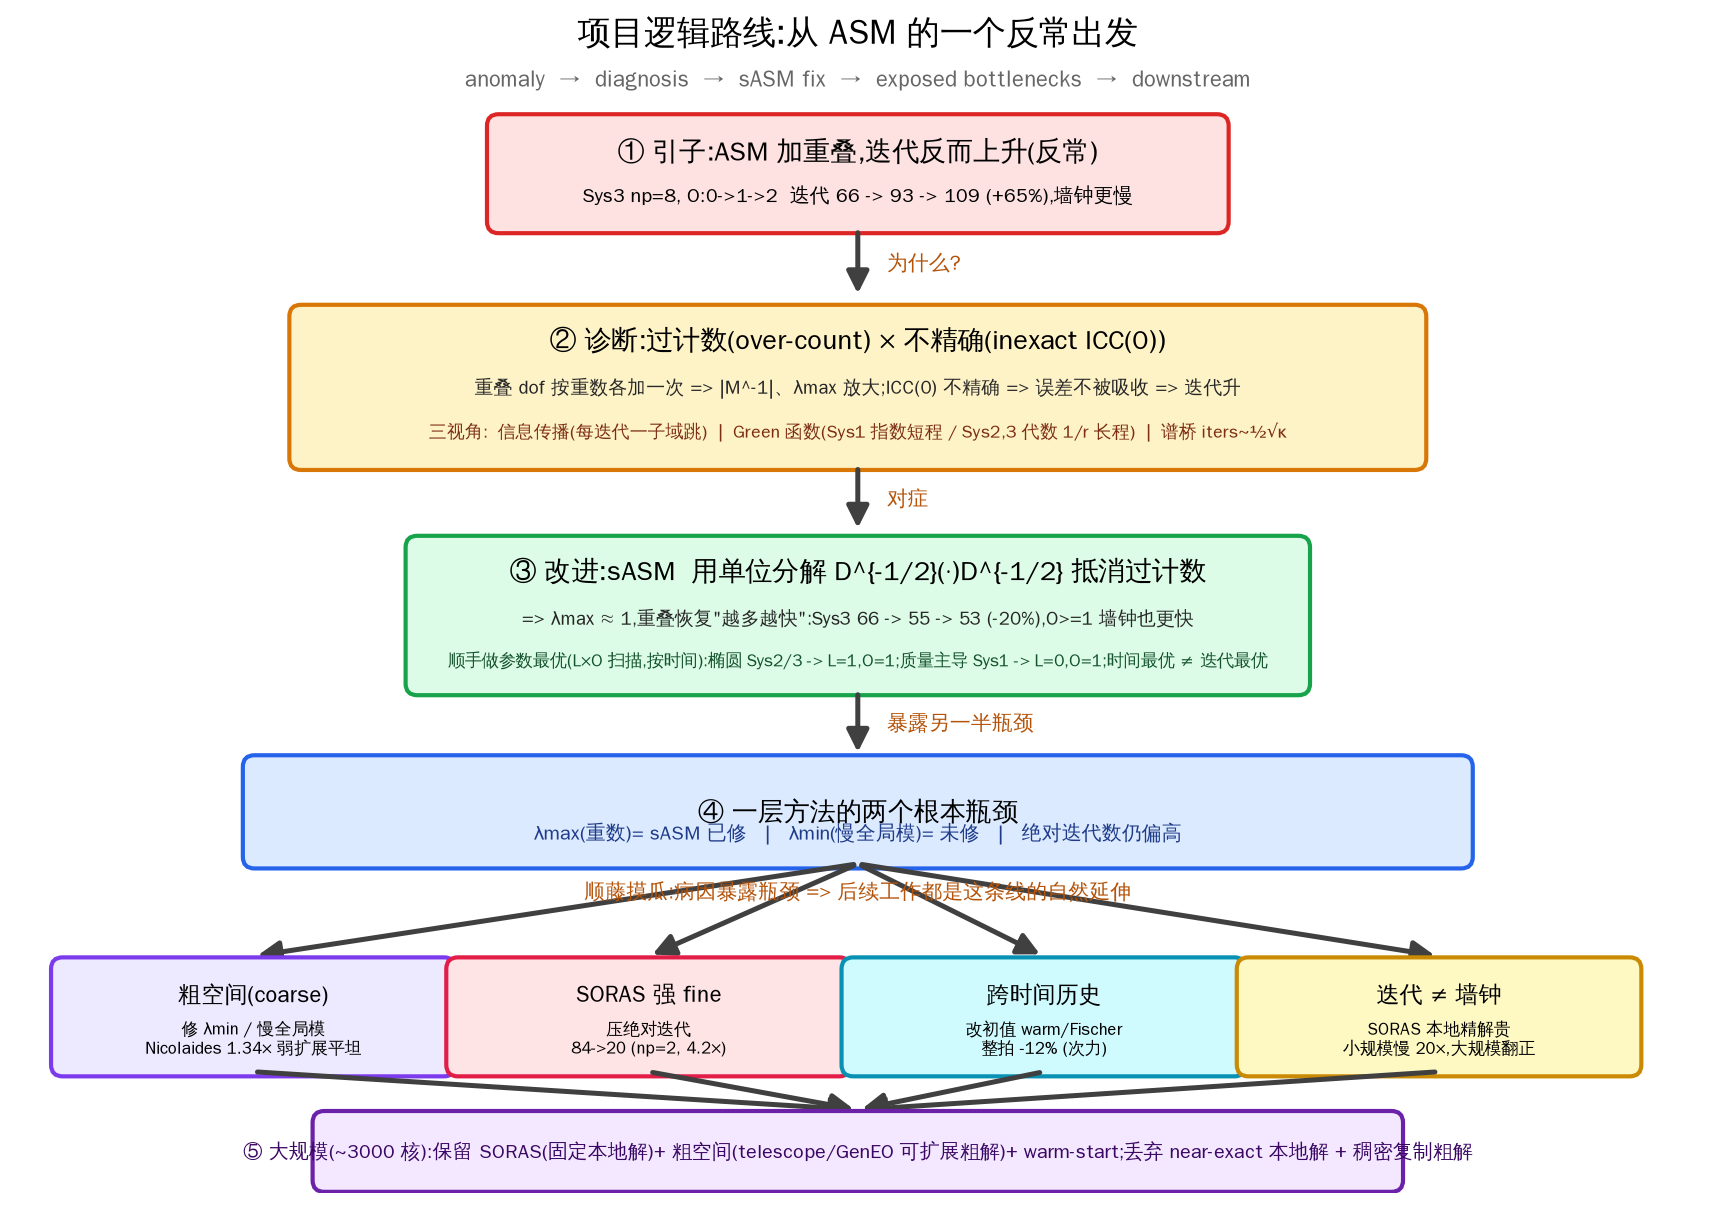
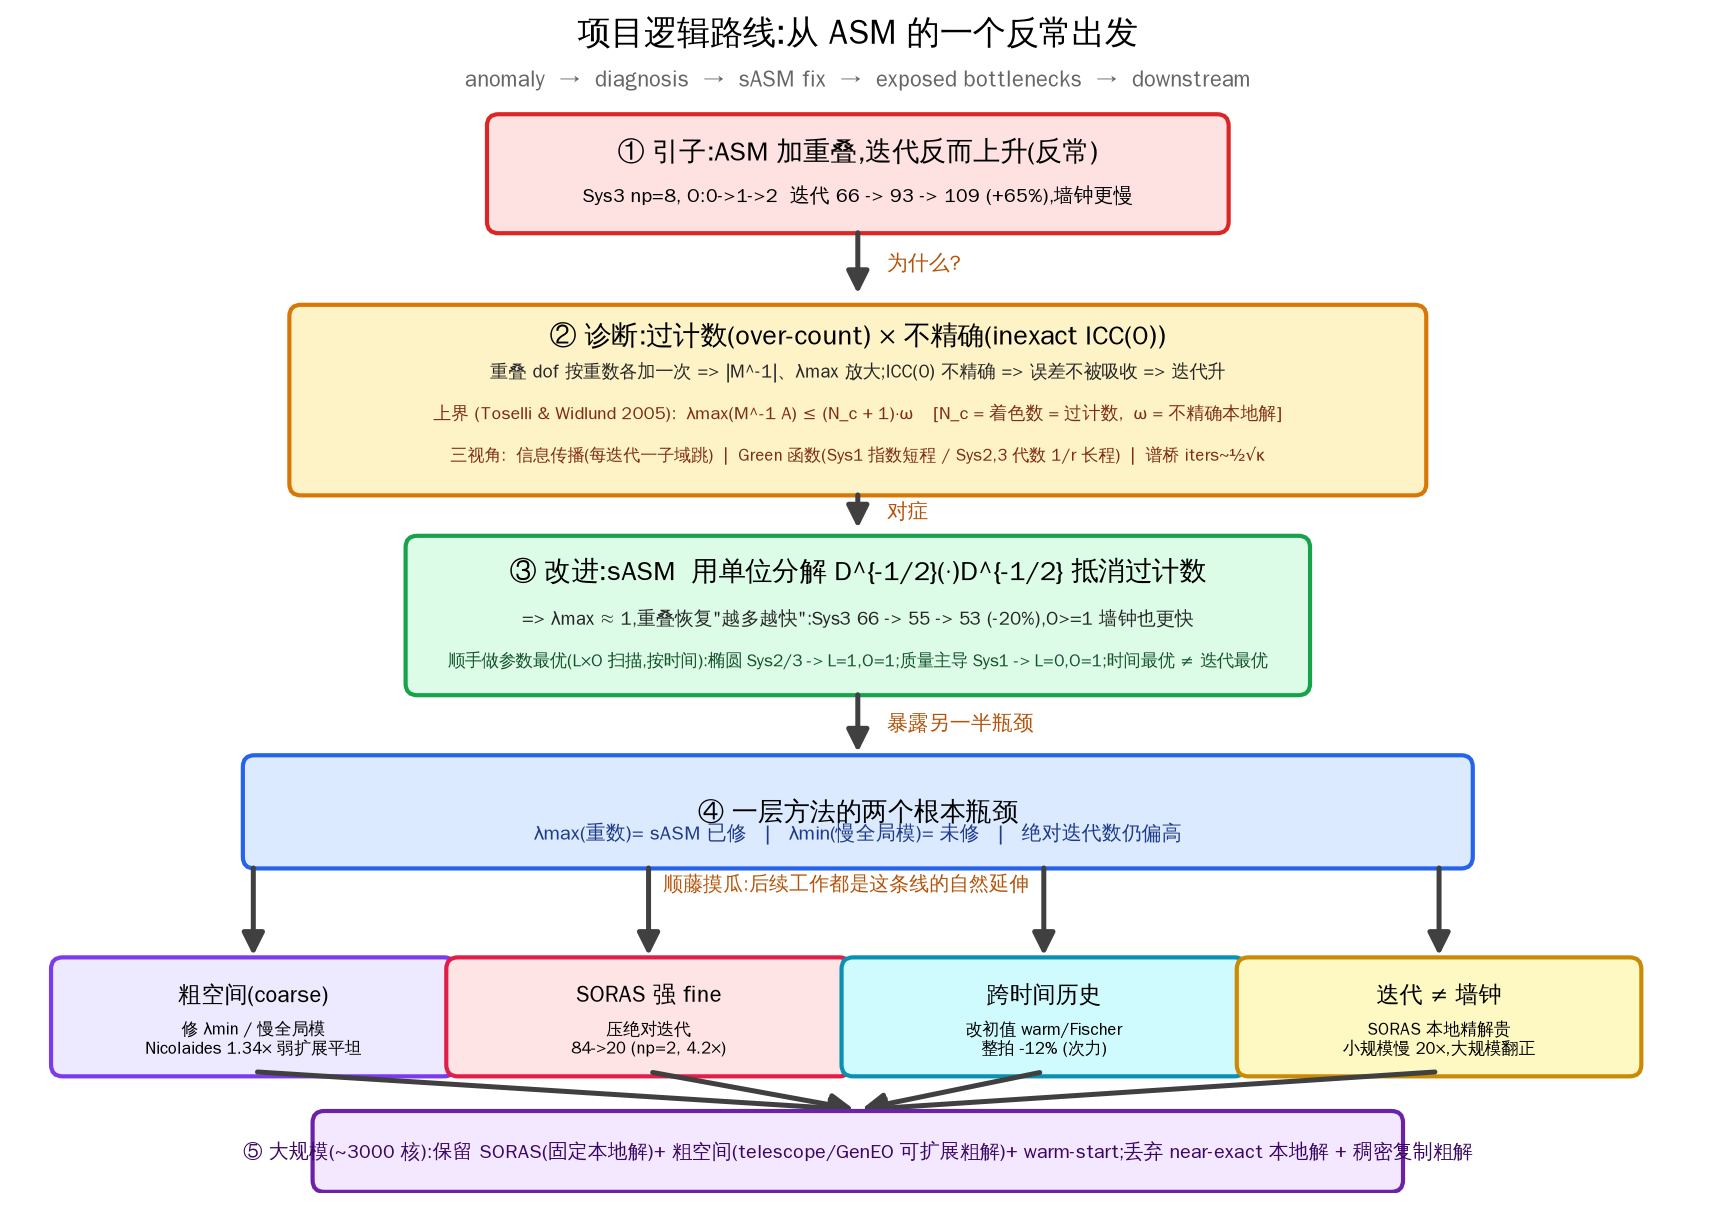
roadmap+prompt: fix text overlap; cite the coloring-number x inexact-solver bound
(1) Fix figure text overlap: fan-out arrows now run straight down from box (4)
    at each downstream box center, so the central label sits cleanly in the gap.
(2) Cite the theoretical upper bound behind the over-count x inexact diagnosis:
    lambda_max(M_ASM^-1 A) <= N_c (coloring number); with inexact local solves
    a(P_ad u,u) <= (N_c+1) omega a(u,u), i.e. lambda_max <= (N_c+1) omega.
    N_c = coloring number = the over-count; omega = inexact-solver stability
    constant = the inexactness -- the rigorous form of 'over-count x inexact'.
    Ref: Toselli & Widlund (2005), abstract Schwarz theory; also Smith-Bjorstad-
    Gropp (1996), Dryja-Widlund (1987). Added to the diagnosis box in the figure
    and to the prompt's diagnosis section + a references block.

Claude-Session: https://claude.ai/code/session_01Td7PJYykjvwsdg1NW8u8VH

diff --git a/asm_bug_demo/cardiac/plot_roadmap.py b/asm_bug_demo/cardiac/plot_roadmap.py
@@ -47,14 +47,16 @@ def frame(x, y, w, h, fc, ec):
     ax.add_patch(FancyBboxPatch((x, y), w, h, boxstyle="round,pad=0.04,rounding_size=0.10",
                                 fc=fc, ec=ec, lw=2.0))
 
-frame(2.4, 6.30, 9.7, 1.35, "#fef3c7", "#d97706")
-ax.text(7.25, 7.38, "② 诊断:过计数(over-count) × 不精确(inexact ICC(0))",
+frame(2.4, 6.08, 9.7, 1.57, "#fef3c7", "#d97706")
+ax.text(7.25, 7.42, "② 诊断:过计数(over-count) × 不精确(inexact ICC(0))",
         ha="center", va="center", fontsize=13, weight="bold")
-ax.text(7.25, 6.92, "重叠 dof 按重数各加一次 => |M^-1|、λmax 放大;ICC(0) 不精确 => 误差不被吸收 => 迭代升",
-        ha="center", fontsize=9, color="0.15")
-ax.text(7.25, 6.54, "三视角:  信息传播(每迭代一子域跳)  |  Green 函数(Sys1 指数短程 / Sys2,3 代数 1/r 长程)  |  谱桥 iters~½√κ",
-        ha="center", fontsize=8.6, color="#7c2d12")
-arrow(7.25, 6.30, 7.25, 5.72, "对症")
+ax.text(7.25, 7.06, "重叠 dof 按重数各加一次 => |M^-1|、λmax 放大;ICC(0) 不精确 => 误差不被吸收 => 迭代升",
+        ha="center", fontsize=8.8, color="0.15")
+ax.text(7.25, 6.70, "上界 (Toselli & Widlund 2005):  λmax(M^-1 A) ≤ (N_c + 1)·ω    [N_c = 着色数 = 过计数,  ω = 不精确本地解]",
+        ha="center", fontsize=8.6, color="#7c2d12", weight="bold")
+ax.text(7.25, 6.34, "三视角:  信息传播(每迭代一子域跳)  |  Green 函数(Sys1 指数短程 / Sys2,3 代数 1/r 长程)  |  谱桥 iters~½√κ",
+        ha="center", fontsize=8.2, color="#7c2d12")
+arrow(7.25, 6.08, 7.25, 5.72, "对症")
 
 frame(3.4, 4.35, 7.7, 1.30, "#dcfce7", "#16a34a")
 ax.text(7.25, 5.38, "③ 改进:sASM  用单位分解 D^{-1/2}(·)D^{-1/2} 抵消过计数",
@@ -70,9 +72,10 @@ box(2.0, 2.85, 10.5, 0.90, "#dbeafe", "#2563eb",
 ax.text(7.25, 3.06, "λmax(重数)= sASM 已修   |   λmin(慢全局模)= 未修   |   绝对迭代数仍偏高",
         ha="center", fontsize=9.5, color="#1e3a8a", weight="bold")
 
-# --- fan-out downstream ---------------------------------------------------
-ax.text(7.25, 2.55, "顺藤摸瓜:病因暴露瓶颈 => 后续工作都是这条线的自然延伸", ha="center",
-        fontsize=10, style="italic", color="#b45309", weight="bold")
+# --- fan-out downstream:  arrows straight down from box4 (per-box center),
+#     so the central label sits cleanly in the gap between arrows -----------
+ax.text(7.15, 2.62, "顺藤摸瓜:后续工作都是这条线的自然延伸", ha="center",
+        fontsize=9.5, style="italic", color="#b45309", weight="bold")
 ds = [
     (0.35, "#ede9fe", "#7c3aed", "粗空间(coarse)", "修 λmin / 慢全局模\nNicolaides 1.34× 弱扩展平坦"),
     (3.75, "#ffe4e6", "#e11d48", "SORAS 强 fine", "压绝对迭代\n84->20 (np=2, 4.2×)"),
@@ -80,7 +83,8 @@ ds = [
     (10.55, "#fef9c3", "#ca8a04", "迭代 ≠ 墙钟", "SORAS 本地精解贵\n小规模慢 20×,大规模翻正"),
 ]
 for x, fc, ec, t, b in ds:
-    arrow(7.25, 2.85, x+1.7, 2.05, "")
+    cx = x + 1.7
+    arrow(cx, 2.85, cx, 2.02, "")
     box(x, 1.05, 3.4, 0.95, fc, ec, t, b, 11, 8.2)
 
 # --- large scale sink -----------------------------------------------------

diff --git a/asm_bug_demo/cardiac/PROMPT_project_zh.md b/asm_bug_demo/cardiac/PROMPT_project_zh.md
@@ -60,6 +60,16 @@ P1 非结构四面体 FEM(heart 47582 tets,torso 206647 tets);各向异性 $\sig
   $\lambda_{\max}$ 偏大),谱被拉坏。
 - 本地 ICC(0) 解**不精确**,这份放大误差不被本地精解吸收 ⇒ 迭代升。(两条缺一不可:精确本地解或无重叠都不会反常。)
 
+**理论上界(抽象 Schwarz 理论,Toselli & Widlund 2005;亦见 Smith–Bjørstad–Gropp 1996、Dryja–Widlund 1987)**:
+一层加性 Schwarz 满足
+$$\lambda_{\max}\!\big(M_{\text{ASM}}^{-1}A\big)\le N_c,\qquad
+\text{带不精确本地解}:\quad a(P_{ad}u,u)\le (N_c+1)\,\omega\,a(u,u)\ \Rightarrow\ \lambda_{\max}\le(N_c+1)\,\omega,$$
+其中 **$N_c=$ 着色数(coloring number,同色子域互不重叠所需的最少颜色数)= 我们的"过计数/重数"**,
+**$\omega=$ 本地(不精确)求解器的稳定常数($=1$ 为精确解,$>1$ 为 ICC(0))= 我们的"不精确"**。
+**这条上界正是"过计数 × 不精确"的严格数学表述**:加重叠抬高 $N_c$、ICC(0) 抬高 $\omega$ ⇒ $\lambda_{\max}$ 升 ⇒ 迭代升;
+sASM 的单位分解把重数归一 ⇒ $N_c$ 那一因子被抵消 ⇒ $\lambda_{\max}\approx1$。(下界 $\lambda_{\min}\ge \tau_1/\mathcal M_c$
+由稳定分解常数给出,对应 §四的慢全局模 / 需要粗空间。)
+
 三个互补的解释视角(为报告/汇报准备):
 1. **信息传播**:一层 Schwarz 每迭代把边界势推进**一个子域跳**;要传遍全域需 $\sim$(子域直径)步 ⇒ 迭代随 $n_p$ 增长。
    重叠本应加速这个传播,但 BASIC 的过计数把增益抵消还倒赔。
@@ -128,4 +138,18 @@ overlap-1(**时间最优 ≠ 迭代最优**)。③ 一层的两个瓶颈:$\lambd
 **代码入口(`forward_ecg.cpp`,均 skip EP loop)**:`-precond`(ASM vs sASM,iters + tot/solve-only ms)、
 `-sweep`(sASM $L\times O$ 扫描 + 时间最优)、`-fischer`(跨时间)、`-coarse`(Nicolaides 两层)、
 `-soras [-soras_local K]`(强 fine)。交付:`REPORT_SUMMARY_zh.md`、`REPORT_T3_xsys_zh.md`、
-`slides_sim_fakegeo_en.{tex,pdf}`(13 页)、`plot_geom_mesh.py`/`fig_geom.png`/`fig_meshview.png`。
+`slides_sim_fakegeo_en.{tex,pdf}`(13 页)、`plot_geom_mesh.py`/`fig_geom.png`/`fig_meshview.png`、
+`plot_roadmap.py`/`fig_roadmap.png`(本 prompt 配套逻辑路线图)。
+
+---
+
+## 参考文献(诊断部分的理论上界)
+
+- **A. Toselli, O. Widlund**, *Domain Decomposition Methods — Algorithms and Theory*, Springer Series in
+  Computational Mathematics **34**, 2005. —— 抽象 Schwarz 理论:一层加性 Schwarz 的
+  $\lambda_{\max}(M_{\text{ASM}}^{-1}A)\le N_c$(着色数),不精确本地解给出 $\lambda_{\max}\le(N_c{+}1)\,\omega$
+  ($\omega=$ 本地求解器稳定常数),$\lambda_{\min}\ge\tau_1/\mathcal M_c$。**"过计数 × 不精确"上界的权威出处。**
+- **B. Smith, P. Bjørstad, W. Gropp**, *Domain Decomposition: Parallel Multilevel Methods for Elliptic PDEs*,
+  Cambridge Univ. Press, 1996. —— 着色(coloring)论证给出 $\lambda_{\max}\le N_c$ 的经典教科书表述。
+- **M. Dryja, O. Widlund**, *An additive variant of the Schwarz alternating method for the case of many
+  subregions*, Tech. Rep. 339, Courant Institute, 1987. —— 加性 Schwarz 与着色论证的奠基工作。
